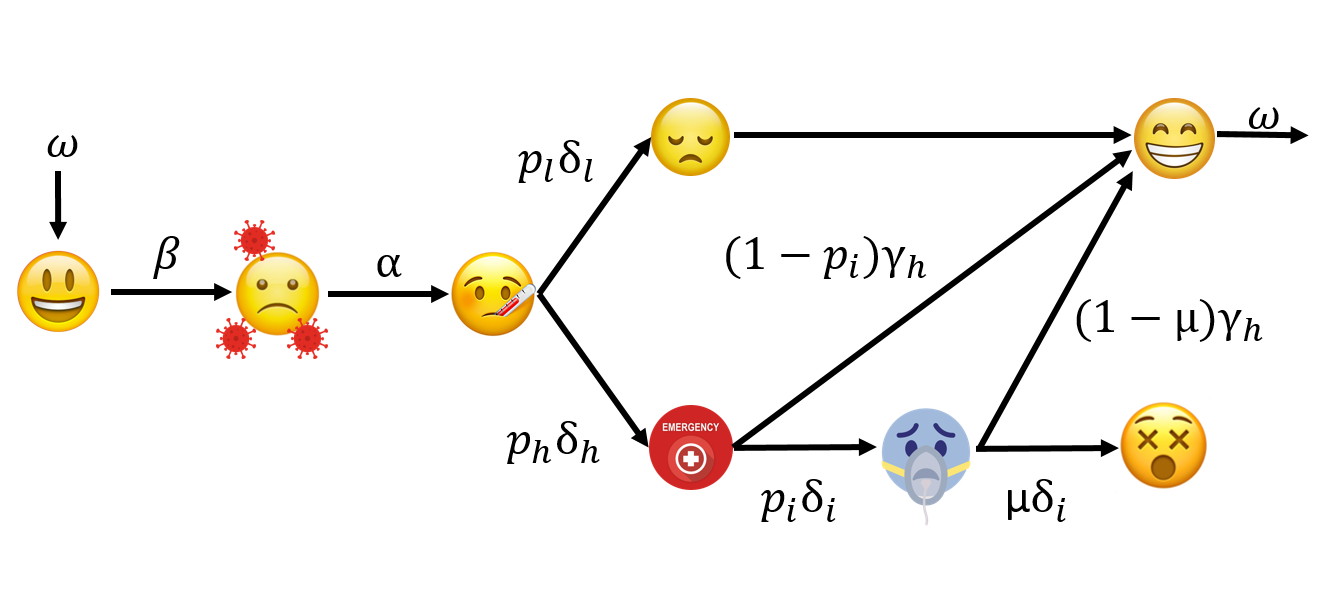
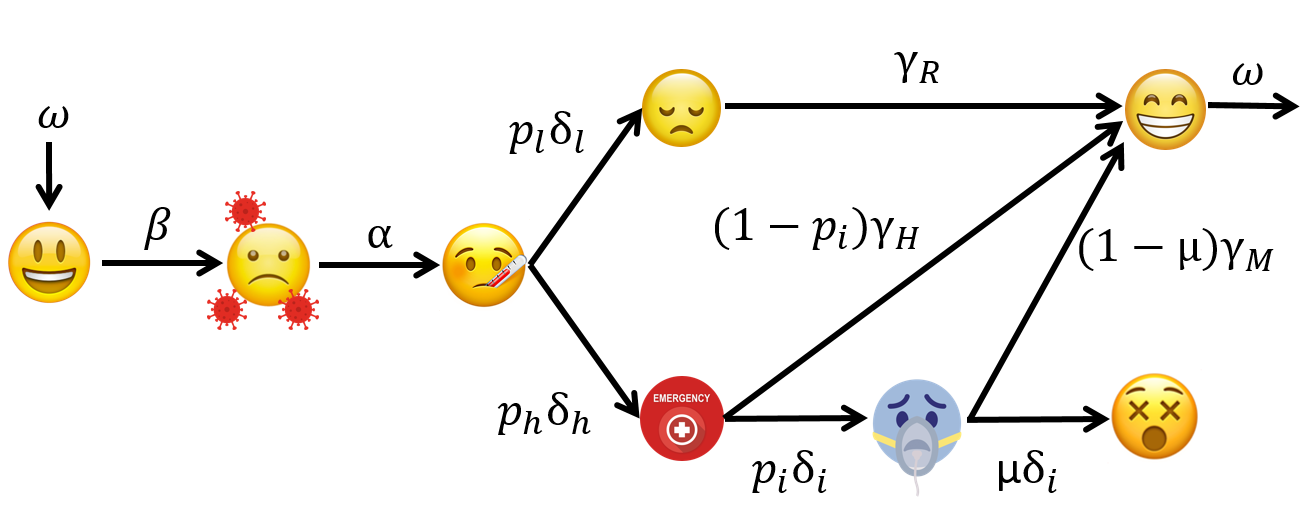
reinfección

Changed region(s): [[0.0, 0.2179, 0.9658, 0.965], [0.3739, 0.1245, 0.997, 0.4047], [0.6854, 0.0934, 0.7166, 0.1556]]

diff --git a/05_Cites/citas.html b/05_Cites/citas.html
@@ -373,7 +373,7 @@ display: none;
 
 <h1 class="title toc-ignore">Citas</h1>
 <h4 class="author">Luis Andrés Rojas García Exp. 279465</h4>
-<h4 class="date">octubre 16 , 2023</h4>
+<h4 class="date">octubre 19 , 2023</h4>
 
 </div>
 
@@ -1059,6 +1059,8 @@ México, 2020)</span></p></li>
 <li><p><span class="citation">(Prem, 2017)</span></p></li>
 <li><p><span class="citation">(Avila-Ponce de León et al.,
 2020)</span></p></li>
+<li><p><span class="citation">(Acuña-Zegarra et al.,
+2022)</span></p></li>
 </ol>
 <ul>
 <li><a href="https://academic.oup.com/cid/article/74/9/1678/6359063" class="uri">https://academic.oup.com/cid/article/74/9/1678/6359063</a> :
@@ -1102,7 +1104,8 @@ de mortalidad en niños</li>
 \dot E_i = \beta_0 *\frac{\sum_{j=1}^4 \, \beta_{ij} \, S_i \, I_j }{N}
 - \alpha \, E_i\]</span></p>
 <p><span class="math display">\[\begin{aligned}
-&amp; \dot S_j = - \frac{\beta \, \sum_{k=1} ^4 S_j \, I_k}{N} \\
+&amp; \dot S_j = - \frac{\beta \, \sum_{k=1} ^4 S_j \, I_k}{N} + \omega
+\, R_j\\
 &amp; \dot E_i = \frac{\beta \, \sum_{k=1} ^4 S_j \, I_k}{N} - \alpha \,
 E_j \\
 &amp; \dot I_j = \alpha \, E_j - p_{lj} \, \delta_l \, I_j - p_{hj} \,
@@ -1114,11 +1117,17 @@ I_{hj} - (1 - p_{ij}) \, \gamma_h \, I_{hj} \\
 \, I_{ij} - (1 - \mu_j) \, \gamma_i \, I_{ij} \\
 &amp; \dot M_j = \mu_j \, \delta_{\mu} \, I_{ij} \\
 &amp; \dot R_j = \gamma_R \, I_{lj} \, + (1 - p_{ij}) \, \gamma_h \,
-I_{hj} + (1 - \mu_j) \, \gamma_i \, I_{ij} \\
+I_{hj} + (1 - \mu_j) \, \gamma_i \, I_{ij} - \omega \, R_j \\
 \\
 &amp; j \, \forall = 1,2,3,4
 \end{aligned}\]</span></p>
 <div id="refs" class="references csl-bib-body hanging-indent" line-spacing="2">
+<div id="ref-acuna2022methodology" class="csl-entry">
+Acuña-Zegarra, M. A., Santana-Cibrian, M., Hernandez-Vela, C. E. R.,
+Mena, R. H., &amp; Velasco-Hernández, J. X. (2022). A methodology to
+generate epidemic scenarios for emerging infectious diseases based on
+the use of key calendar events. <em>medRxiv</em>. <a href="https://doi.org/10.1101/2022.04.29.22274465">https://doi.org/10.1101/2022.04.29.22274465</a>
+</div>
 <div id="ref-adiga2020mathematical" class="csl-entry">
 Adiga, A., Dubhashi, D., Lewis, B., Marathe, M., Venkatramanan, S.,
 &amp; Vullikanti, A. (2020). Mathematical models for COVID-19 pandemic:
